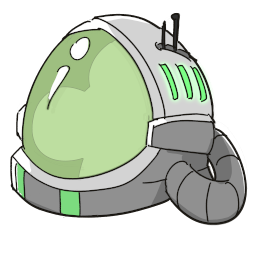
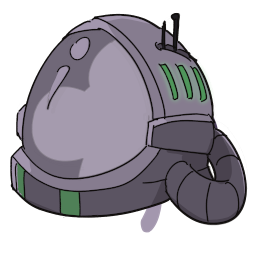
Update astronaut helmet

diff --git a/src/assets/images/clover/base/hero/index.ts b/src/assets/images/clover/base/hero/index.ts
@@ -1,5 +1,6 @@
 import hero from "./hero.png";
+import hazmat from "./hazmat.png";
 import alien from "./alien.png";
 import sketch from "./sketch.png";
 
-export { hero, alien, sketch };
+export { hero, hazmat, alien, sketch };
